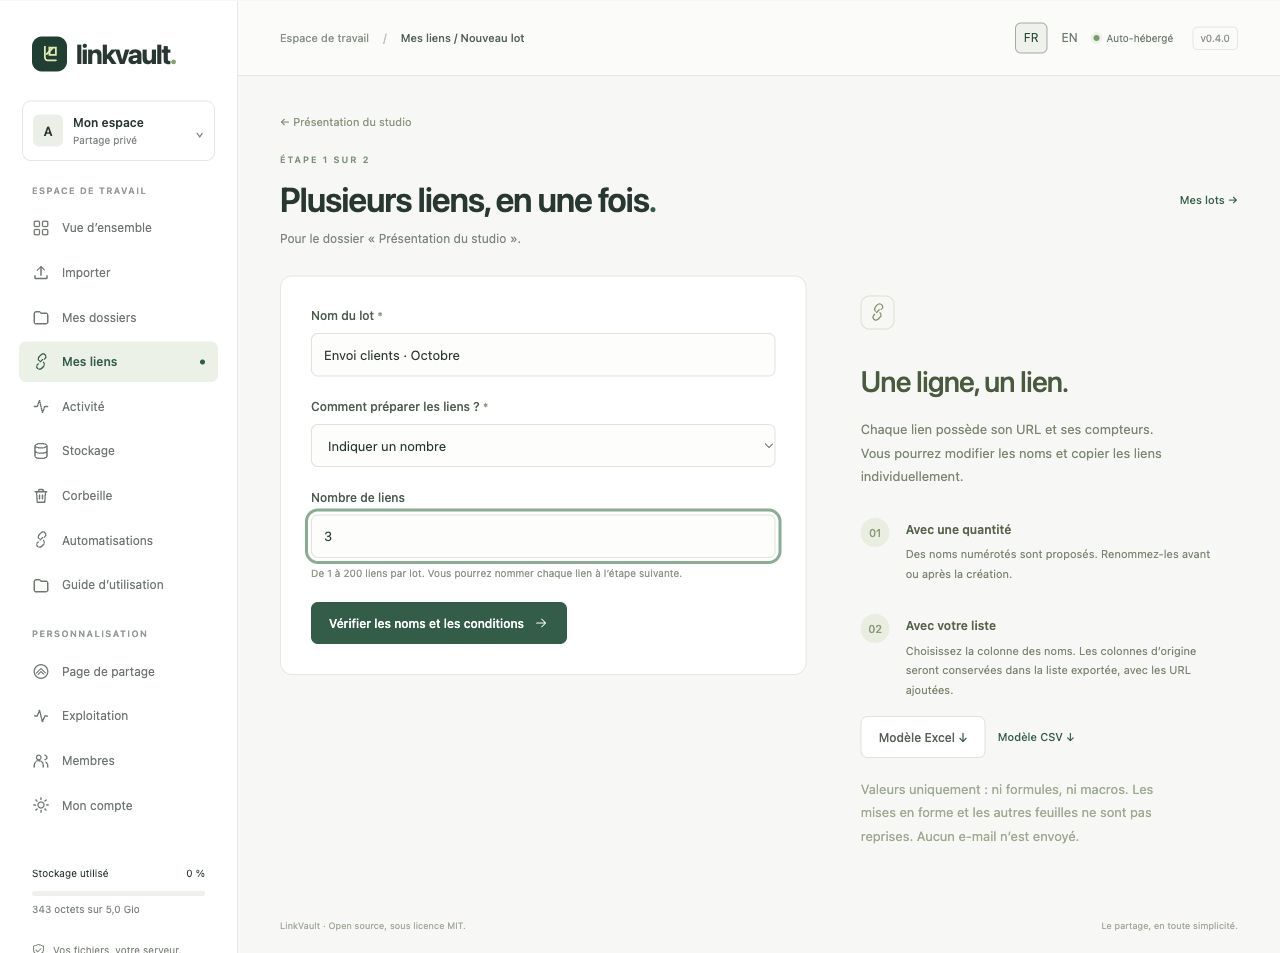
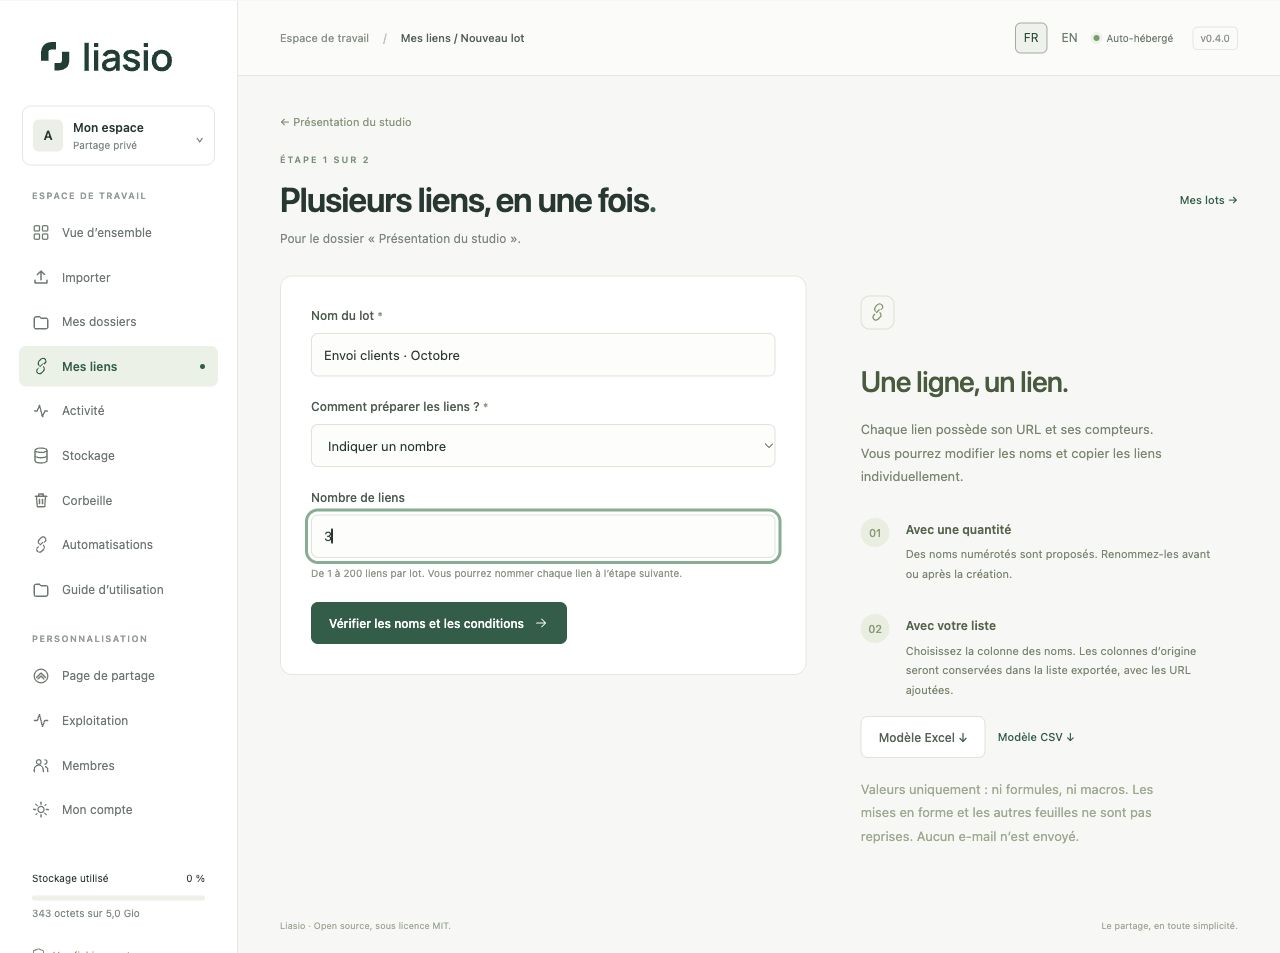
Align bulk link exports and illustrated guides with Liasio

diff --git a/vault/batches.py b/vault/batches.py
@@ -426,13 +426,13 @@ def export(request, pk, format):
         return throttled()
     headers = list(batch.headers)
     for header in (
-        "LinkVault name",
-        "LinkVault URL",
-        "LinkVault status",
-        "LinkVault created at (UTC)",
-        "LinkVault expires at (UTC)",
-        "LinkVault max downloads",
-        "LinkVault downloads",
+        "Liasio name",
+        "Liasio URL",
+        "Liasio status",
+        "Liasio created at (UTC)",
+        "Liasio expires at (UTC)",
+        "Liasio max downloads",
+        "Liasio downloads",
     ):
         unique, suffix = header, 2
         while unique.casefold() in {h.casefold() for h in headers}:
@@ -458,7 +458,7 @@ def export(request, pk, format):
         headers,
         rows,
         format,
-        filename="linkvault-links-" + batch.pk.hex[:12],
+        filename="liasio-links-" + batch.pk.hex[:12],
         url_column=len(batch.headers) + 1,
     )
 
@@ -477,7 +477,7 @@ def template(request, format):
             ["Alex", "alex@example.com", "CLIENT-002"],
         ],
         format,
-        filename="linkvault-list-template",
+        filename="liasio-list-template",
     )
 
 

diff --git a/vault/link_lists.py b/vault/link_lists.py
@@ -230,7 +230,7 @@ def csv_text(value):
 
 
 def spreadsheet_response(
-    headers, rows, format, *, filename="linkvault-links", url_column=None
+    headers, rows, format, *, filename="liasio-links", url_column=None
 ):
     """Create a new plain table, with no imported formulas or external content."""
     if format == "csv":
@@ -244,7 +244,7 @@ def spreadsheet_response(
     else:
         book = Workbook()
         sheet = book.active
-        sheet.title = "LinkVault"
+        sheet.title = "Liasio"
         for row_number, row in enumerate([headers, *rows], 1):
             for column, value in enumerate(row, 1):
                 cell = sheet.cell(row_number, column)

diff --git a/docs/SECURITY_MODEL.md b/docs/SECURITY_MODEL.md
@@ -92,4 +92,4 @@ Imports accept up to 1 MiB, with a 1.125 MiB HTTP boundary and a 3 MiB temporary
 
 XLSX is untrusted ZIP/XML. Preflight rejects encryption, binary/macro payloads, external-workbook members, duplicate/traversal names and unsupported compression. It bounds the archive to 64 members, 8 MiB expanded total and 4 MiB per member; actual bounded reads and CRC validation precede parsing. All XML members pass defusedxml with DTDs/entities prohibited, depth capped at 32 and a global 50,000-element limit. Worksheet coordinates are bounded; formulas are rejected. openpyxl then reads the first worksheet in read-only mode with external workbook links disabled and explicit row/column bounds, ignoring claimed worksheet dimensions. Production antivirus must accept the list before openpyxl reads it. The library's [security guidance](https://openpyxl.readthedocs.io/en/stable/#security) calls for defusedxml; both dependencies are locked and audited in CI.
 
-Exports construct a new workbook from plain values, never reuse the imported ZIP, and explicitly mark cells as strings. Only server-generated LinkVault URLs become XLSX hyperlinks. CSV uses quoted cells and prefixes formula-like or leading control values with an apostrophe. Imported names/values are escaped in HTML and in JSON script data; no source strings become executable JavaScript. Lists and exports use private no-store responses, never appear on share pages, and are not included in webhook payloads.
+Exports construct a new workbook from plain values, never reuse the imported ZIP, and explicitly mark cells as strings. Only server-generated Liasio URLs become XLSX hyperlinks. CSV uses quoted cells and prefixes formula-like or leading control values with an apostrophe. Imported names/values are escaped in HTML and in JSON script data; no source strings become executable JavaScript. Lists and exports use private no-store responses, never appear on share pages, and are not included in webhook payloads.

diff --git a/docs/guide/fr/bulk-links.md b/docs/guide/fr/bulk-links.md
@@ -31,7 +31,7 @@ Cliquez sur **Créer les X liens**. La création est atomique : tous les liens s
 
 ![Lot créé et export de la liste](../../screenshots/user-guide/fr/batch-result.jpg)
 
-Copiez une URL avec son bouton, ou téléchargez l’ensemble via **Télécharger Excel** / **Télécharger CSV**. La liste comprend les colonnes importées puis le nom actuel, l’URL, le statut, les dates UTC et les compteurs LinkVault. Les liens sont cliquables dans le fichier Excel.
+Copiez une URL avec son bouton, ou téléchargez l’ensemble via **Télécharger Excel** / **Télécharger CSV**. La liste comprend les colonnes importées puis le nom actuel, l’URL, le statut, les dates UTC et les compteurs Liasio. Les liens sont cliquables dans le fichier Excel.
 
 Les cellules sont exportées comme valeurs, sans formules, macros, styles ou feuilles supplémentaires du classeur d’origine. Les identifiants saisis comme texte, par exemple `00127`, restent du texte. Le CSV utilise UTF-8 avec BOM et le point-virgule ; les cellules susceptibles d’être interprétées comme des formules reçoivent une apostrophe de protection. **Le mot de passe défini dans les conditions n’est jamais exporté** : communiquez-le séparément.
 

diff --git a/docs/guide/en/bulk-links.md b/docs/guide/en/bulk-links.md
@@ -31,7 +31,7 @@ Click **Create the X links**. Creation is atomic: either every link is created o
 
 ![Created batch and list export](../../screenshots/user-guide/en/batch-result.jpg)
 
-Copy individual URLs, or use **Download Excel** / **Download CSV**. The export contains the original columns followed by the current LinkVault name, URL, status, UTC dates and counters. URLs are clickable in Excel.
+Copy individual URLs, or use **Download Excel** / **Download CSV**. The export contains the original columns followed by the current Liasio name, URL, status, UTC dates and counters. URLs are clickable in Excel.
 
 Cells are exported as values, without the original workbook's formulas, macros, styles or additional sheets. Identifiers entered as text, such as `00127`, remain text. CSV uses UTF-8 with a BOM and semicolons; cells that could be interpreted as formulas receive a protective apostrophe. **The password entered in the conditions is never exported**: communicate it separately.
 
